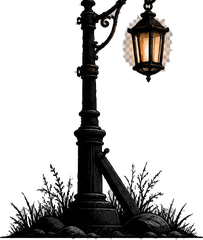
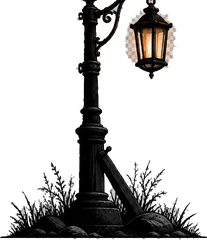
Ağaç sayfası kesildi (6 ağaç) ve Çayır bölümüne arka plan ağaçları; üst kenar çizgi kalıntısı temizlendi
Claude-Session: https://claude.ai/code/session_018fPM2RtNHVRPiWAchGStGm

diff --git a/oyun-fikirlerim/iki-kisilik-oyun/tools_sheets.py b/oyun-fikirlerim/iki-kisilik-oyun/tools_sheets.py
@@ -6,7 +6,7 @@ import numpy as np
 from PIL import Image
 from scipy import ndimage as ndi
 HERE = os.path.dirname(os.path.abspath(__file__)); S = f'{HERE}/assets/cevre/sayfa'; O = f'{HERE}/assets/cevre/oge'
-PAGES = {'bitki': (4, 2), 'kaya': (4, 2), 'esya': (4, 2), 'ev_fener': (2, 2), 'sarmasik': (3, 1)}
+PAGES = {'agac': (3, 2), 'bitki': (4, 2), 'kaya': (4, 2), 'esya': (4, 2), 'ev_fener': (2, 2), 'sarmasik': (3, 1)}
 MIN = 120
 os.makedirs(O, exist_ok=True)
 for name, (cols, rows) in PAGES.items():
@@ -15,11 +15,17 @@ for name, (cols, rows) in PAGES.items():
     for r in range(rows):
         for c in range(cols):
             cell = im.crop((round(c * cw), round(r * ch), round((c + 1) * cw), round((r + 1) * ch)))
-            a = np.array(cell); m = a[..., 3] > 10
+            a = np.array(cell)
+            if name != 'sarmasik': a[:10, :, 3] = 0   # üst hücreden taşan ince kenar çizgisi
+            m = a[..., 3] > 10
             lab, n = ndi.label(ndi.binary_dilation(m, iterations=3))   # parçalı nesneleri bütün tut
             if n == 0: continue
             sizes = ndi.sum(m, lab, range(1, n + 1)); keep = [i + 1 for i, s in enumerate(sizes) if s >= MIN * 4]
             if not keep: continue
+            if name != 'sarmasik':   # üst hücreden taşan ince çizgi/kalıntılar: hücrenin üst kenarına değen bileşenleri sil
+                top_labels = set(np.unique(lab[0])) - {0}
+                keep = [i for i in keep if i not in top_labels or ndi.sum(m, lab, i) > 4000]
+                if not keep: continue
             km = np.isin(lab, keep); a[~km, 3] = 0
             ys, xs = np.where(a[..., 3] > 10); crop = Image.fromarray(a).crop((xs.min(), ys.min(), xs.max() + 1, ys.max() + 1))
             crop.save(f'{O}/{name}_{k:02d}.png', optimize=True); print(name, k, crop.size); k += 1

diff --git a/oyun-fikirlerim/iki-kisilik-oyun/tools_cevre.py b/oyun-fikirlerim/iki-kisilik-oyun/tools_cevre.py
@@ -34,7 +34,8 @@ for n, target in DEK.items():
     meta[n] = {'w': w2, 'h': h2, 'ax': round(ax, 1), 'res': 2}
 
 # ızgara sayfalarından gelen nesneler (tools_sheets.py): (dosya, ad, 'h'=hedef yükseklik | 'w'=hedef genişlik, oyun px)
-OGE = [('bitki_00','cali',60,'h'),('bitki_01','egrelti',55,'h'),('bitki_02','ot',85,'h'),('bitki_03','mantar',45,'h'),('bitki_04','dikenli_cali',75,'h'),
+OGE = [('agac_00','agac_ince',330,'h'),('agac_01','agac_kalin',420,'h'),('agac_02','agac_kuru_cam',380,'h'),('agac_03','agac_olu',330,'h'),('agac_04','agac_cift',400,'h'),('agac_05','agac_genc',230,'h'),
+       ('bitki_00','cali',60,'h'),('bitki_01','egrelti',55,'h'),('bitki_02','ot',85,'h'),('bitki_03','mantar',45,'h'),('bitki_04','dikenli_cali',75,'h'),
        ('bitki_05','cimen_oku',35,'h'),('bitki_06','cicek',80,'h'),('bitki_07','kok_yigin',65,'h'),
        ('kaya_00','tas',50,'w'),('kaya_01','kaya_orta',95,'w'),('kaya_02','kaya_buyuk',140,'w'),('kaya_03','kaya_catlak',125,'w'),('kaya_04','govde_yatan',160,'w'),
        ('kaya_05','kutuk_devrik',125,'w'),('kaya_06','kutuk_kesik',85,'w'),('kaya_07','tas_yigin',110,'w'),
